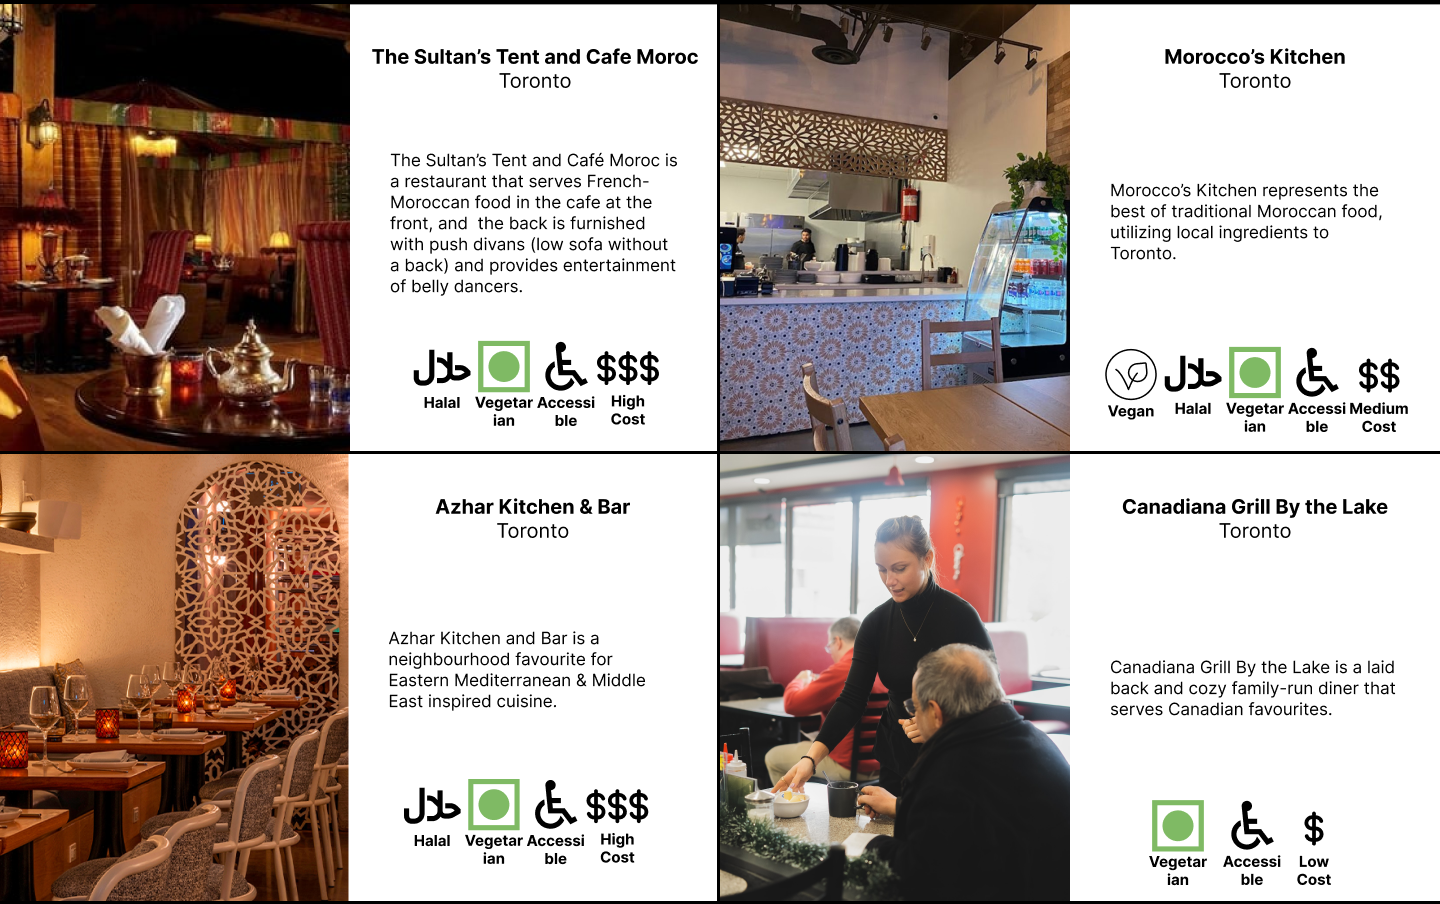
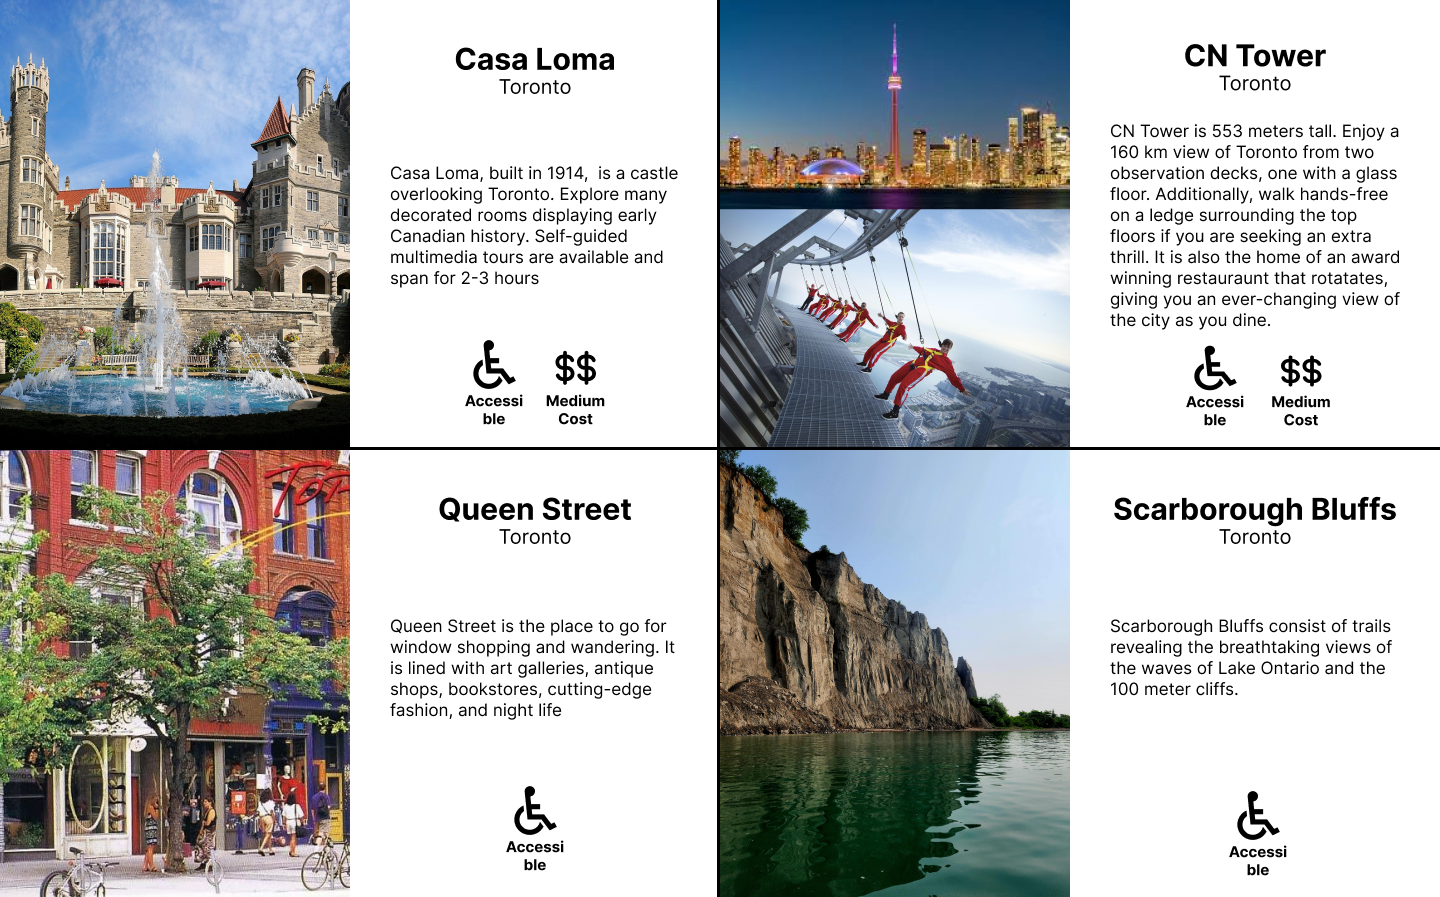
new sizing

diff --git a/MrCanadaData/Toronto Attractions/content.html b/MrCanadaData/Toronto Attractions/content.html
@@ -1,3 +1,3 @@
 <html>
-<img src= width="1080" height="1010">
+<img src= width="1080" height="673">
 </html>

diff --git a/MrCanadaData/Toronto PlacesOfWorship/content.html b/MrCanadaData/Toronto PlacesOfWorship/content.html
@@ -1,3 +1,3 @@
 <html>
-<img src= width="1080" height="1010">
+<img src= width="1080" height="673">
 </html>

diff --git a/MrCanadaData/Toronto Restaurants/content.html b/MrCanadaData/Toronto Restaurants/content.html
@@ -1,3 +1,3 @@
 <html>
-<img src= width="1080" height="1010">
+<img src= width="1080" height="673">
 </html>

diff --git a/MrCanadaData/Toronto Back/content.html b/MrCanadaData/Toronto Back/content.html
@@ -1,3 +1,3 @@
 <html>
-<img src= width="1080" height="701">
+<img src= width="1080" height="673">
 </html>

diff --git a/MrCanadaData/Toronto FromDestinationCatalog/content.html b/MrCanadaData/Toronto FromDestinationCatalog/content.html
@@ -1,3 +1,3 @@
 <html>
-<img src= width="1080" height="701">
+<img src= width="1080" height="673">
 </html>

diff --git a/MrCanadaData/Toronto/content.html b/MrCanadaData/Toronto/content.html
@@ -1,3 +1,3 @@
 <html>
-<img src= width="1080" height="701">
+<img src= width="1080" height="673">
 </html>
